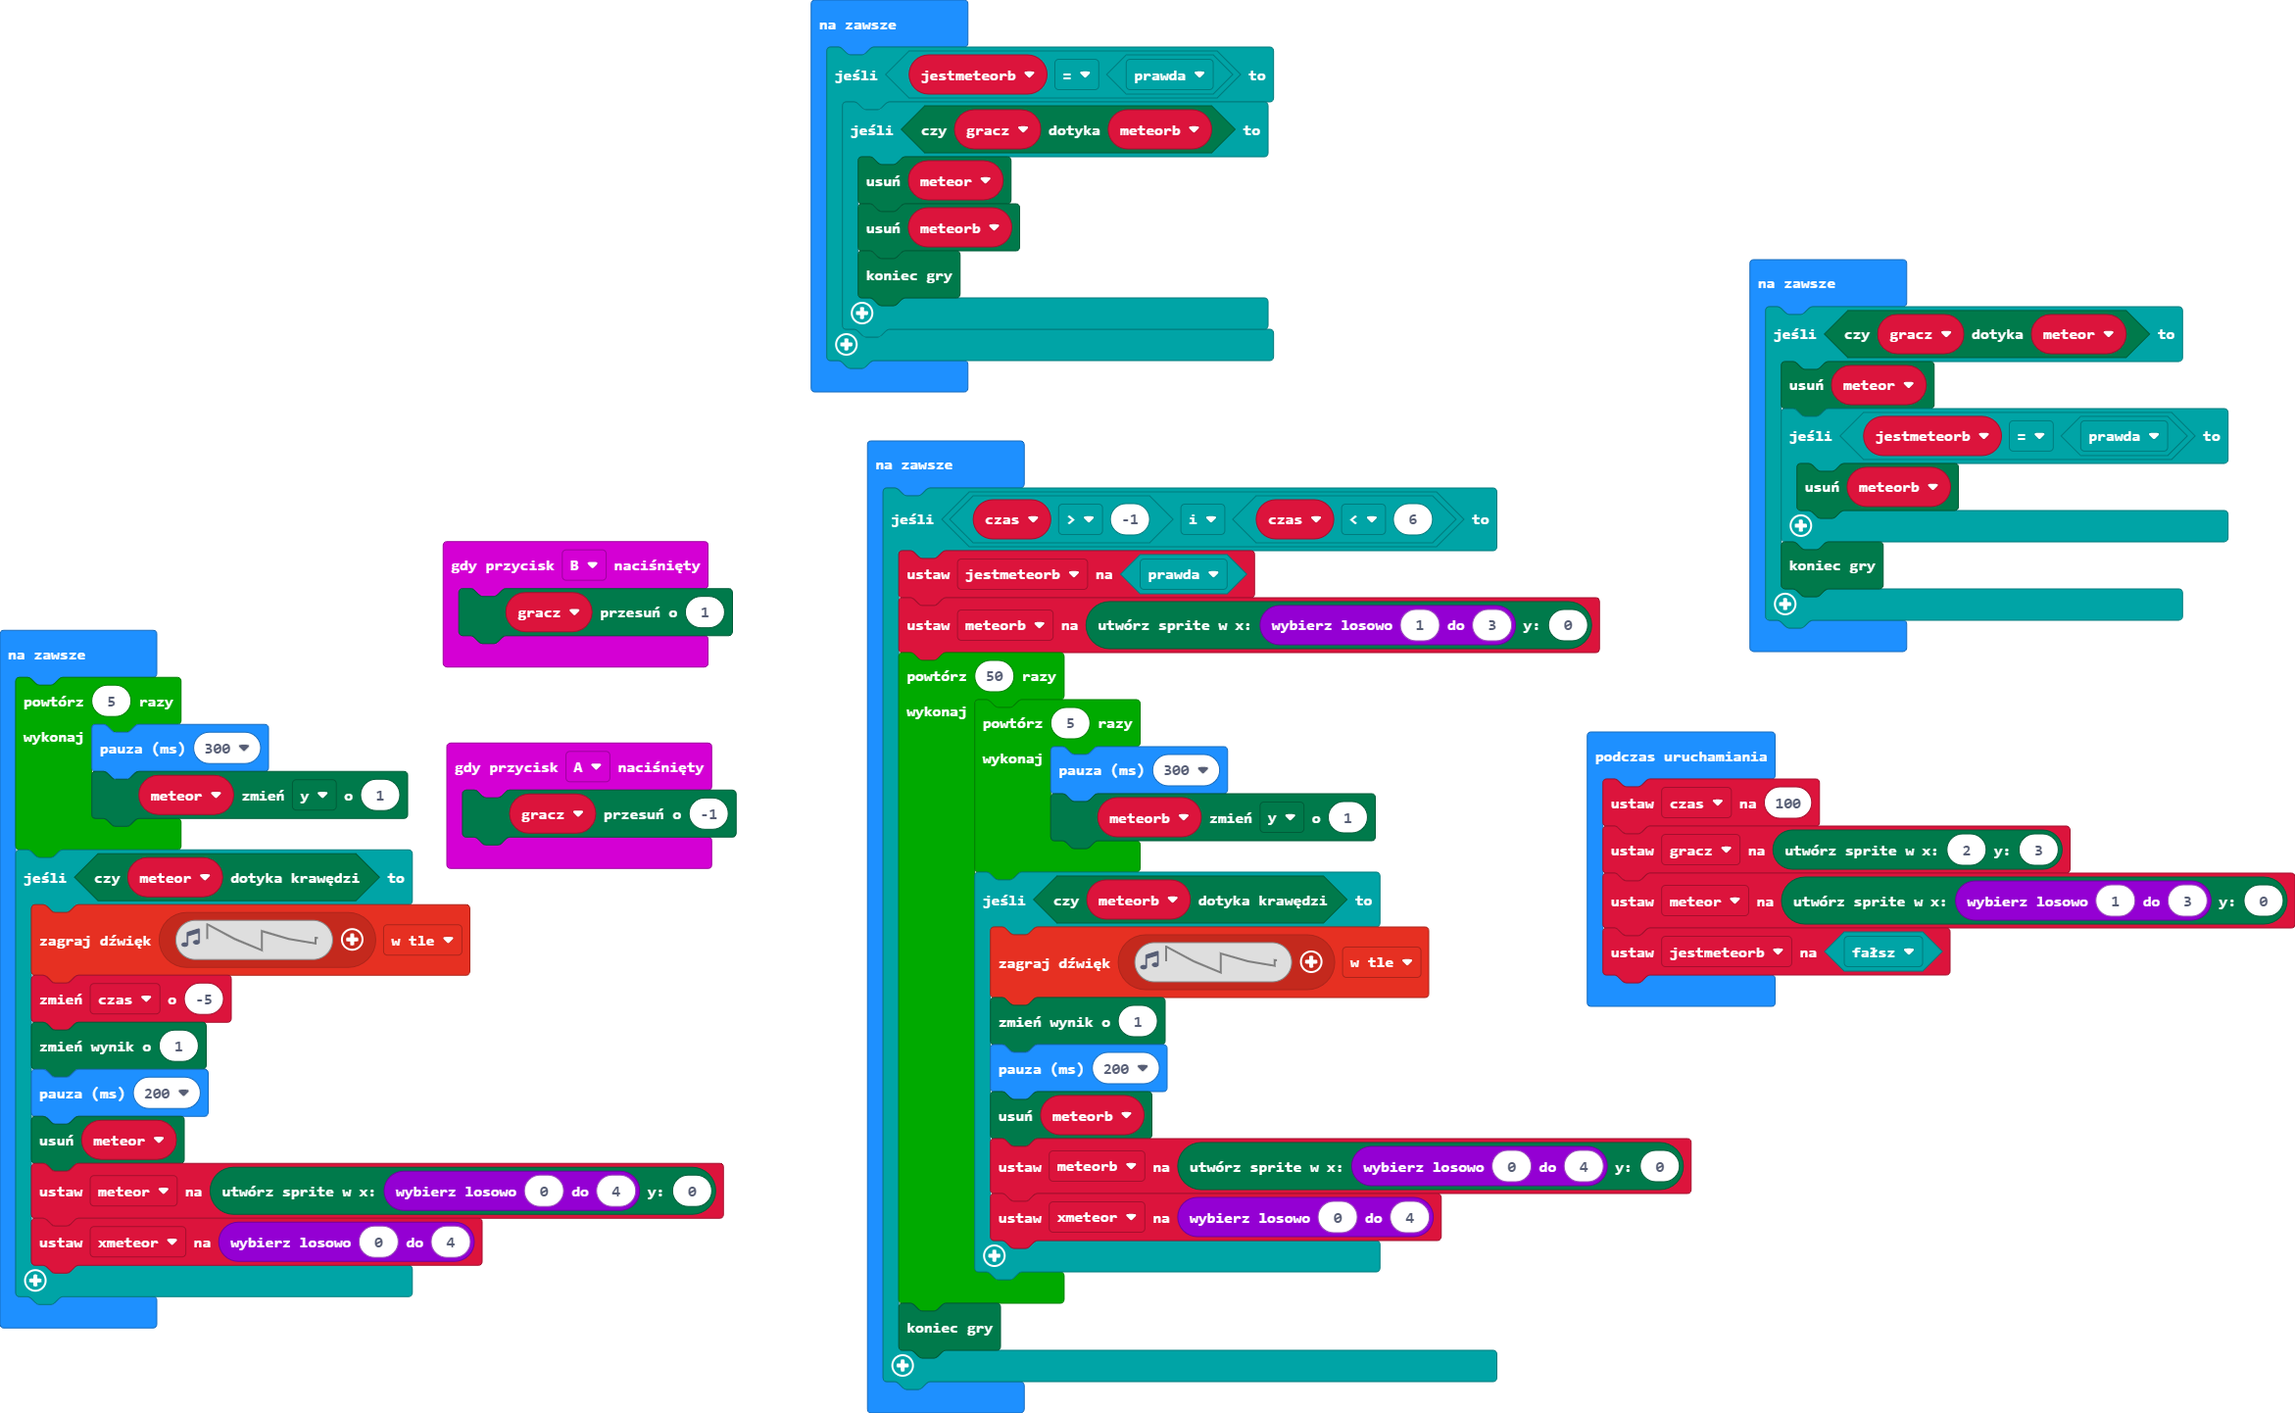
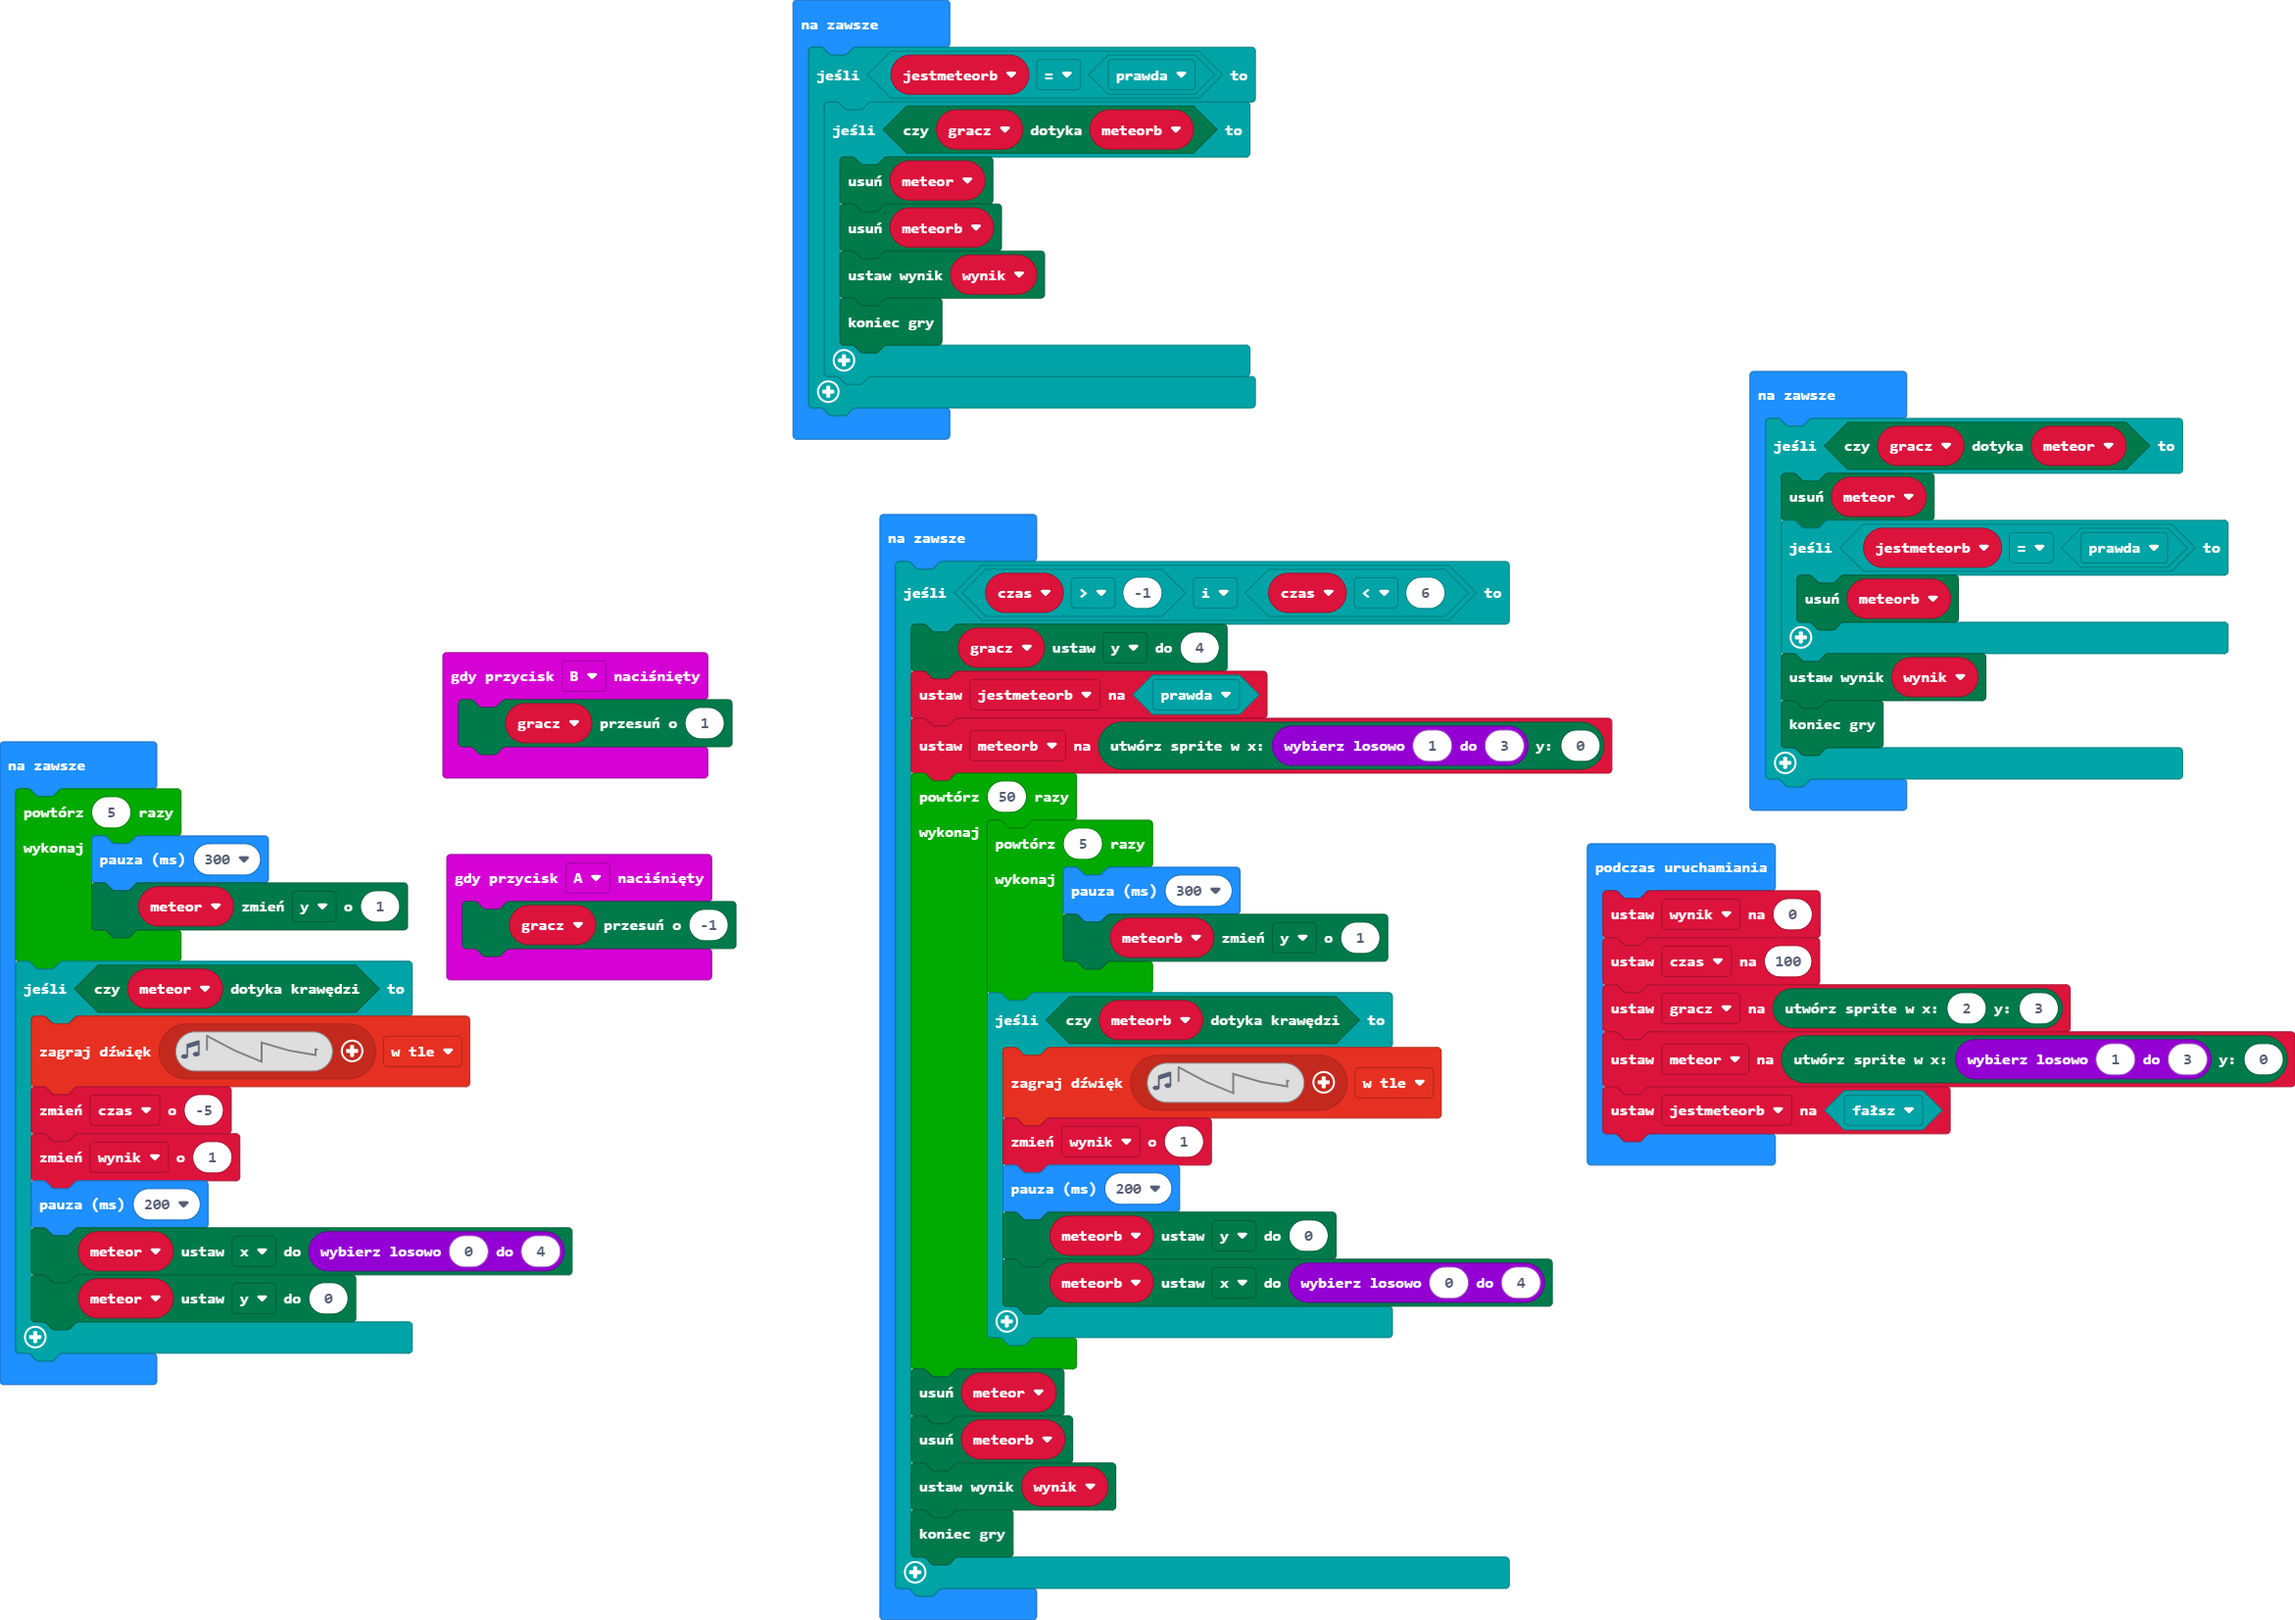
usunięte wybuchy meteorów

diff --git a/main.ts b/main.ts
@@ -4,9 +4,9 @@ input.onButtonPressed(Button.A, function () {
 input.onButtonPressed(Button.B, function () {
     gracz.move(1)
 })
-let xmeteor = 0
 let meteorb: game.LedSprite = null
 let gracz: game.LedSprite = null
+let wynik = 0
 let czas = 100
 gracz = game.createSprite(2, 3)
 let meteor = game.createSprite(randint(1, 3), 0)
@@ -16,6 +16,7 @@ basic.forever(function () {
         if (gracz.isTouching(meteorb)) {
             meteor.delete()
             meteorb.delete()
+            game.setScore(wynik)
             game.gameOver()
         }
     }
@@ -26,11 +27,13 @@ basic.forever(function () {
         if (jestmeteorb == true) {
             meteorb.delete()
         }
+        game.setScore(wynik)
         game.gameOver()
     }
 })
 basic.forever(function () {
     if (czas > -1 && czas < 6) {
+        gracz.set(LedSpriteProperty.Y, 4)
         jestmeteorb = true
         meteorb = game.createSprite(randint(1, 3), 0)
         for (let index = 0; index < 50; index++) {
@@ -40,13 +43,15 @@ basic.forever(function () {
             }
             if (meteorb.isTouchingEdge()) {
                 music.playSoundEffect(music.createSoundEffect(WaveShape.Sawtooth, 400, 600, 255, 0, 100, SoundExpressionEffect.Warble, InterpolationCurve.Linear), SoundExpressionPlayMode.InBackground)
-                game.addScore(1)
+                wynik += 1
                 basic.pause(200)
-                meteorb.delete()
-                meteorb = game.createSprite(randint(0, 4), 0)
-                xmeteor = randint(0, 4)
+                meteorb.set(LedSpriteProperty.Y, 0)
+                meteorb.set(LedSpriteProperty.X, randint(0, 4))
             }
         }
+        meteor.delete()
+        meteorb.delete()
+        game.setScore(wynik)
         game.gameOver()
     }
 })
@@ -58,10 +63,9 @@ basic.forever(function () {
     if (meteor.isTouchingEdge()) {
         music.playSoundEffect(music.createSoundEffect(WaveShape.Sawtooth, 400, 600, 255, 0, 100, SoundExpressionEffect.Warble, InterpolationCurve.Linear), SoundExpressionPlayMode.InBackground)
         czas += -5
-        game.addScore(1)
+        wynik += 1
         basic.pause(200)
-        meteor.delete()
-        meteor = game.createSprite(randint(0, 4), 0)
-        xmeteor = randint(0, 4)
+        meteor.set(LedSpriteProperty.X, randint(0, 4))
+        meteor.set(LedSpriteProperty.Y, 0)
     }
 })

diff --git a/main.py b/main.py
@@ -6,55 +6,58 @@ def on_button_pressed_b():
     gracz.move(1)
 input.on_button_pressed(Button.B, on_button_pressed_b)
 
-xmeteor = 0
 meteorb: game.LedSprite = None
 gracz: game.LedSprite = None
 czas = 100
 gracz = game.create_sprite(2, 3)
 meteor = game.create_sprite(randint(1, 3), 0)
+jestmeteorb = False
 
 def on_forever():
-    if meteor.is_touching(gracz):
-        meteor.delete()
-        game.game_over()
+    if jestmeteorb == True:
+        if gracz.is_touching(meteorb):
+            meteor.delete()
+            meteorb.delete()
+            game.game_over()
 basic.forever(on_forever)
 
 def on_forever2():
-    global meteorb, xmeteor
-    for index in range(5):
-        basic.pause(300)
-        meteorb.change(LedSpriteProperty.Y, 1)
-    if meteorb.is_touching_edge():
-        music.play_sound_effect(music.create_sound_effect(WaveShape.SAWTOOTH,
-                400,
-                600,
-                255,
-                0,
-                100,
-                SoundExpressionEffect.WARBLE,
-                InterpolationCurve.LINEAR),
-            SoundExpressionPlayMode.IN_BACKGROUND)
-        game.add_score(1)
-        basic.pause(200)
-        meteorb.delete()
-        meteorb = game.create_sprite(randint(0, 4), 0)
-        xmeteor = randint(0, 4)
+    if gracz.is_touching(meteor):
+        meteor.delete()
+        if jestmeteorb == True:
+            meteorb.delete()
+        game.game_over()
 basic.forever(on_forever2)
 
 def on_forever3():
-    global meteorb
-    if czas == 0:
+    global jestmeteorb, meteorb
+    if czas > -1 and czas < 6:
+        jestmeteorb = True
         meteorb = game.create_sprite(randint(1, 3), 0)
+        for index in range(50):
+            for index2 in range(5):
+                basic.pause(300)
+            if meteorb.is_touching_edge():
+                meteorb.change(LedSpriteProperty.Y, 1)
+                music.play_sound_effect(music.create_sound_effect(WaveShape.SAWTOOTH,
+                        400,
+                        600,
+                        255,
+                        0,
+                        100,
+                        SoundExpressionEffect.WARBLE,
+                        InterpolationCurve.LINEAR),
+                    SoundExpressionPlayMode.IN_BACKGROUND)
+                game.add_score(1)
+                basic.pause(200)
+                meteorb.set(LedSpriteProperty.Y, 0)
+                meteorb.set(LedSpriteProperty.X, randint(0, 4))
+        game.game_over()
 basic.forever(on_forever3)
 
 def on_forever4():
-    if gracz.is_touching(meteor):
-        game.game_over()
-basic.forever(on_forever4)
-
-def on_forever5():
-    global czas, meteor, xmeteor
-    for index2 in range(5):
+    global czas
+    for index3 in range(5):
         basic.pause(300)
         meteor.change(LedSpriteProperty.Y, 1)
     if meteor.is_touching_edge():
@@ -70,7 +73,6 @@ def on_forever5():
         czas += -5
         game.add_score(1)
         basic.pause(200)
-        meteor.delete()
-        meteor = game.create_sprite(randint(0, 4), 0)
-        xmeteor = randint(0, 4)
-basic.forever(on_forever5)
+        meteor.set(LedSpriteProperty.X, randint(0, 4))
+        meteor.set(LedSpriteProperty.Y, 0)
+basic.forever(on_forever4)
